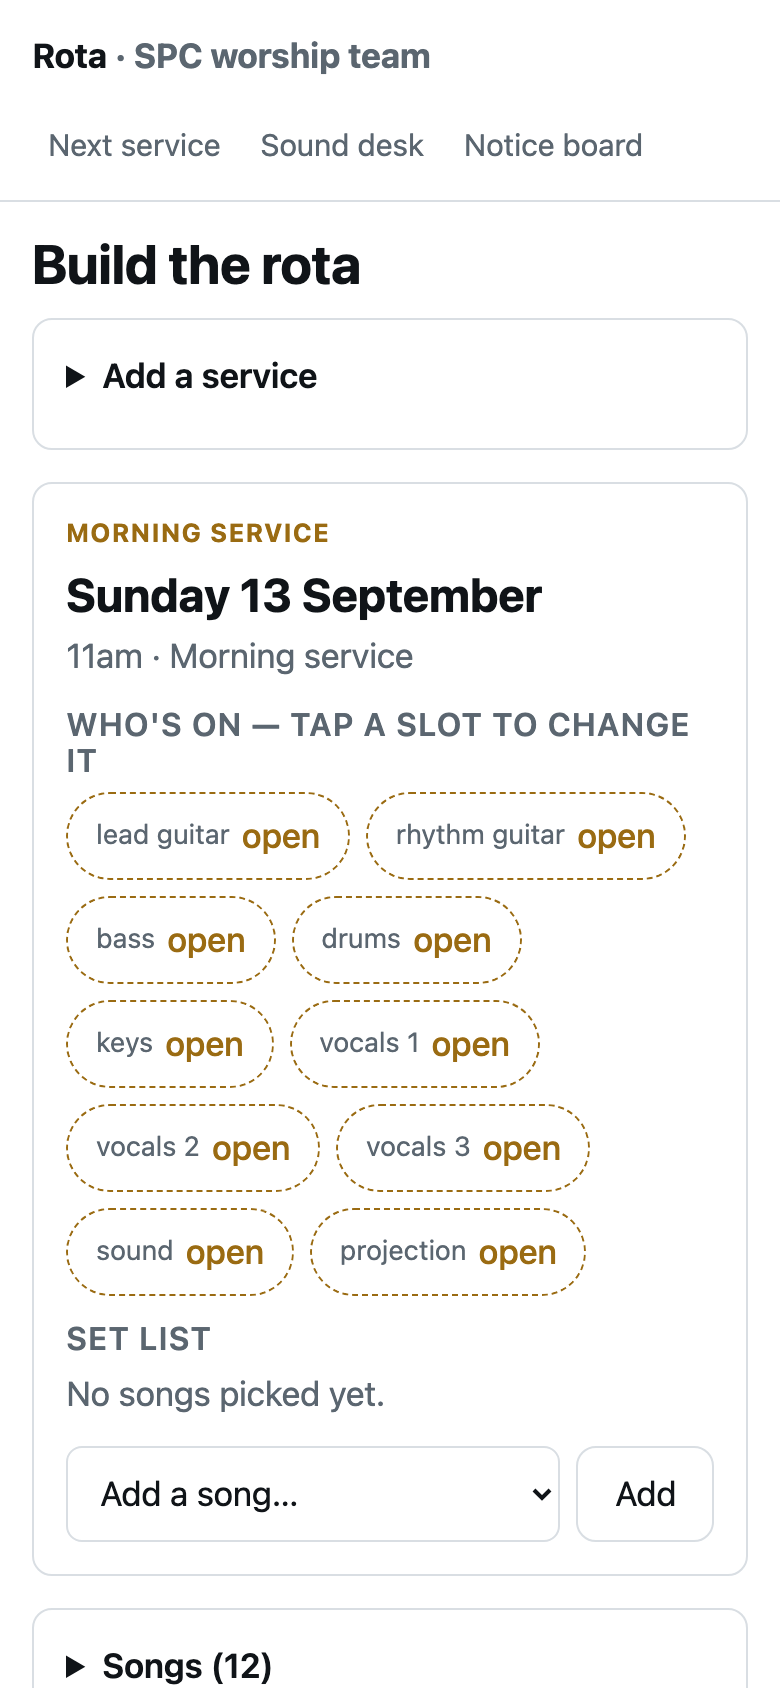
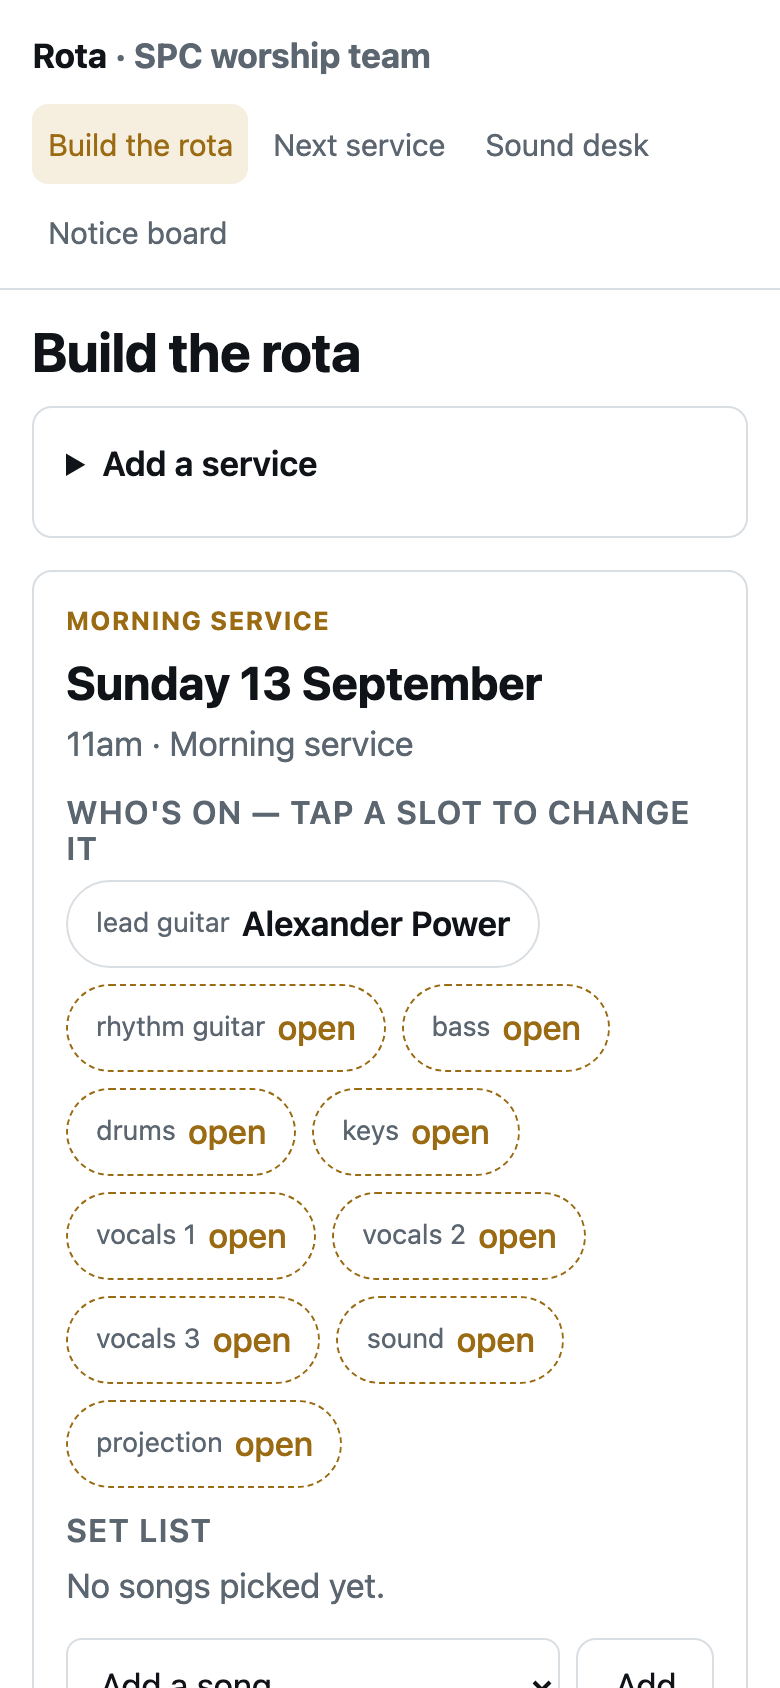
roles: worship leader, piano, acoustic guitar 1-3 under Who's on
Claude-Session: https://claude.ai/code/session_01MVyoLDcmnvebad1mxbgPAW

diff --git a/app/app.js b/app/app.js
@@ -3,7 +3,7 @@ import { createApi, ApiError } from './api.js'
 
 const params = new URLSearchParams(location.search)
 const MOCK = params.get('mock') === '1'
-const ROLES = ['lead guitar', 'rhythm guitar', 'bass', 'drums', 'keys', 'vocals 1', 'vocals 2', 'vocals 3', 'sound', 'projection']
+const ROLES = ['worship leader', 'lead guitar', 'rhythm guitar', 'acoustic guitar 1', 'acoustic guitar 2', 'acoustic guitar 3', 'bass', 'drums', 'keys', 'piano', 'vocals 1', 'vocals 2', 'vocals 3', 'sound', 'projection']
 const KEYS = ['C', 'C#', 'Db', 'D', 'Eb', 'E', 'F', 'F#', 'Gb', 'G', 'Ab', 'A', 'Bb', 'B', 'Cm', 'C#m', 'Dm', 'Ebm', 'Em', 'Fm', 'F#m', 'Gm', 'G#m', 'Am', 'Bbm', 'Bm']
 const KIND = { am: 'Morning service', pm: 'Evening service', practice: 'Practice', special: 'Special service' }
 

diff --git a/app/api.mock.js b/app/api.mock.js
@@ -5,7 +5,7 @@
 import { ApiError } from './api.js'
 import { snapshot } from './mock-data.js'
 
-export const ROLES = ['lead guitar', 'rhythm guitar', 'bass', 'drums', 'keys', 'vocals 1', 'vocals 2', 'vocals 3', 'sound', 'projection']
+export const ROLES = ['worship leader', 'lead guitar', 'rhythm guitar', 'acoustic guitar 1', 'acoustic guitar 2', 'acoustic guitar 3', 'bass', 'drums', 'keys', 'piano', 'vocals 1', 'vocals 2', 'vocals 3', 'sound', 'projection']
 const ROLE_CODES = { lg: 'lead guitar', rg: 'rhythm guitar', bs: 'bass', ba: 'bass', dr: 'drums', ky: 'keys', v1: 'vocals 1', v2: 'vocals 2', v3: 'vocals 3', sd: 'sound', pj: 'projection' }
 const KIND = { am: 'am', pm: 'pm', prac: 'practice', practice: 'practice', special: 'special' }
 

diff --git a/worker/src/util.js b/worker/src/util.js
@@ -1,4 +1,4 @@
-export const ROLES = ['lead guitar', 'rhythm guitar', 'bass', 'drums', 'keys', 'vocals 1', 'vocals 2', 'vocals 3', 'sound', 'projection']
+export const ROLES = ['worship leader', 'lead guitar', 'rhythm guitar', 'acoustic guitar 1', 'acoustic guitar 2', 'acoustic guitar 3', 'bass', 'drums', 'keys', 'piano', 'vocals 1', 'vocals 2', 'vocals 3', 'sound', 'projection']
 export const KINDS = ['am', 'pm', 'practice', 'special']
 
 export class HttpError extends Error {

diff --git a/docs/API.md b/docs/API.md
@@ -20,4 +20,4 @@ Every mutable row carries `rev` (integer). Writes send `rev`; a stale one → 40
 
 `<service view>` = `{ id, date, time, kind, title, notes, rev, slots: { "lead guitar": { person_id, name } | null, … }, set: [{ position, song: { id, title, artist }, key, lead_name, note }], away_names: [...] }`.
 
-Roles: `lead guitar, rhythm guitar, bass, drums, keys, vocals 1, vocals 2, vocals 3, sound, projection`.
+Roles: `worship leader, lead guitar, rhythm guitar, acoustic guitar 1, acoustic guitar 2, acoustic guitar 3, bass, drums, keys, piano, vocals 1, vocals 2, vocals 3, sound, projection` (added worship leader, piano and the three acoustic slots 2026-09-13 at Alexander's request).
